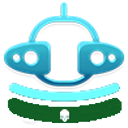
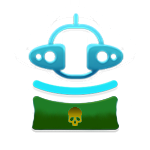
Seamoth Brine Resist module now appears in the PDA

diff --git a/SeamothBrineResist/Modules/SeamothBrineResistanceModule.cs b/SeamothBrineResist/Modules/SeamothBrineResistanceModule.cs
@@ -1,11 +1,4 @@
-using System;
-using System.Collections.Generic;
-using System.Linq;
-using System.Text;
-using System.Threading.Tasks;
-using SMLHelper.V2.Assets;
-using SMLHelper.V2.Handlers;
-using SMLHelper.V2.Utility;
+using SMLHelper.V2.Assets;
 using SMLHelper.V2.Crafting;
 using UnityEngine;
 
@@ -16,8 +9,8 @@ namespace SeamothBrineResist.Modules
         public static TechType TechTypeID { get; protected set; }
         public SeamothBrineResistanceModule()
             : base("SeamothBrineResistModule",
-                  "Seamoth Brine Resist Module",
-                  "Prevents the Seamoth from taking damage from the Acid Brine")
+                  "Seamoth brine resistant coating",
+                  "Adds a protective coating on the Seamoth that prevents it from taking damage from corrosive brine pools.")
         {
             OnFinishedPatching += () =>
             {
@@ -27,6 +20,7 @@ namespace SeamothBrineResist.Modules
         public override EquipmentType EquipmentType => EquipmentType.SeamothModule;
         public override TechType RequiredForUnlock => TechType.BaseUpgradeConsole;
         public override TechGroup GroupForPDA => TechGroup.VehicleUpgrades;
+        public override TechCategory CategoryForPDA => TechCategory.VehicleUpgrades;
         public override CraftTree.Type FabricatorType => CraftTree.Type.SeamothUpgrades;
         public override string[] StepsToFabricatorTab => new string[] { "SeamothModules" };
         public override QuickSlotType QuickSlotType => QuickSlotType.Passive;
@@ -44,8 +38,9 @@ namespace SeamothBrineResist.Modules
                 Ingredients =
                 {
                     new Ingredient(TechType.Polyaniline, 1),
-                    new Ingredient(TechType.WiringKit, 1),
-                    new Ingredient(TechType.AluminumOxide,1),
+                    new Ingredient(TechType.WiringKit, 2),
+                    new Ingredient(TechType.AluminumOxide, 2),
+                    new Ingredient(TechType.Nickel, 1),
                 },
             };
         }

diff --git a/SeamothBrineResist/Properties/AssemblyInfo.cs b/SeamothBrineResist/Properties/AssemblyInfo.cs
@@ -1,6 +1,7 @@
 using System.Reflection;
 using System.Runtime.CompilerServices;
 using System.Runtime.InteropServices;
+using SeamothBrineResist;
 
 // General Information about an assembly is controlled through the following
 // set of attributes. Change these attribute values to modify the information
@@ -32,5 +33,5 @@ using System.Runtime.InteropServices;
 // You can specify all the values or you can default the Build and Revision Numbers
 // by using the '*' as shown below:
 // [assembly: AssemblyVersion("1.0.*")]
-[assembly: AssemblyVersion("1.1.0.0")]
-[assembly: AssemblyFileVersion("1.1.0.0")]
+[assembly: AssemblyVersion(Main.version)]
+[assembly: AssemblyFileVersion(Main.version)]

diff --git a/SeamothBrineResist/Main.cs b/SeamothBrineResist/Main.cs
@@ -11,11 +11,14 @@ namespace SeamothBrineResist
         private static Assembly myAssembly = Assembly.GetExecutingAssembly();
         private static string ModPath = Path.GetDirectoryName(myAssembly.Location);
         internal static string AssetsFolder = Path.Combine(ModPath, "Assets");
+        public const string version = "1.1.2.0";
+
         [QModPatch]
         public static void Load()
         {
             var brineResist = new SeamothBrineResistanceModule();
             brineResist.Patch();
+
             var assembly = Assembly.GetExecutingAssembly();
             new Harmony($"Metious_{assembly.GetName().Name}").PatchAll(assembly);
         }
